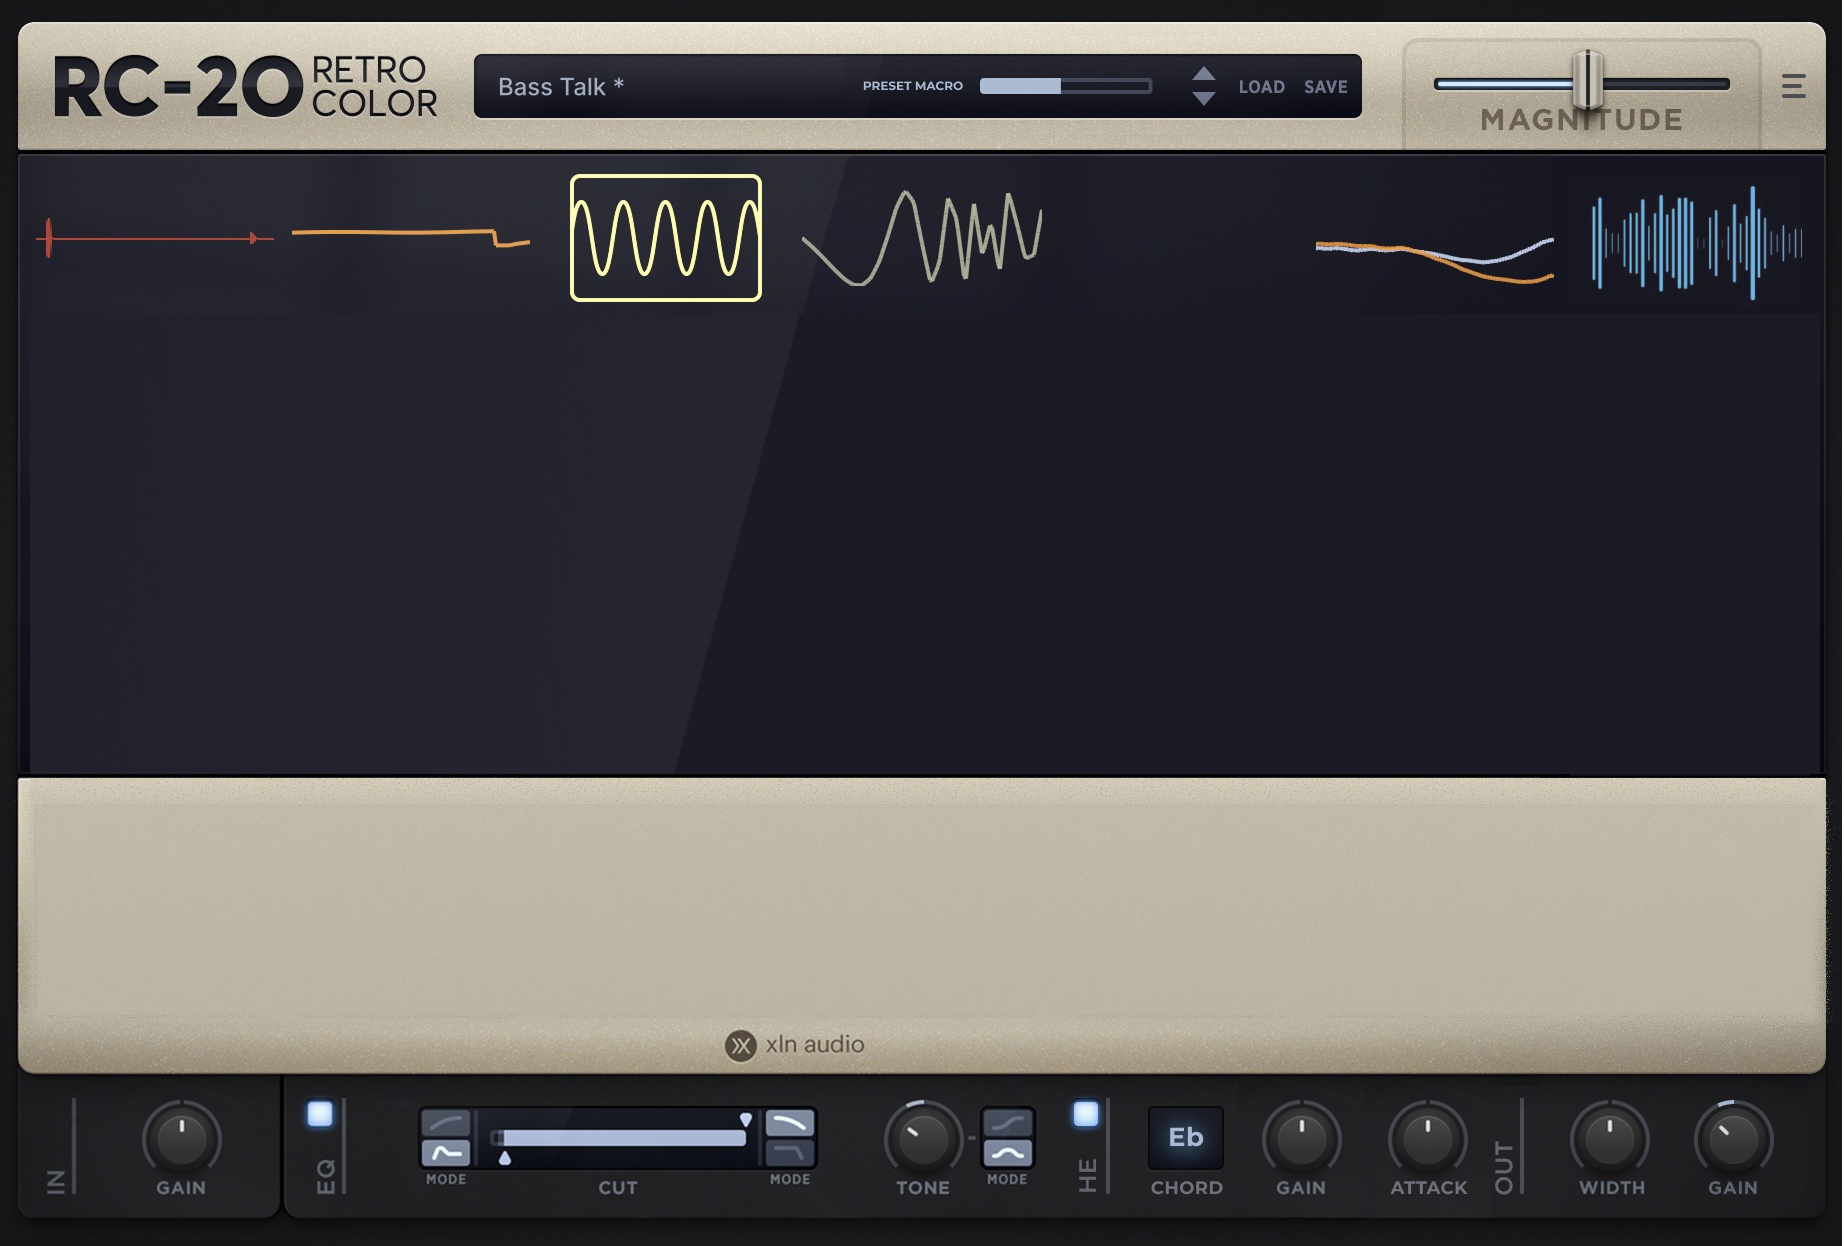
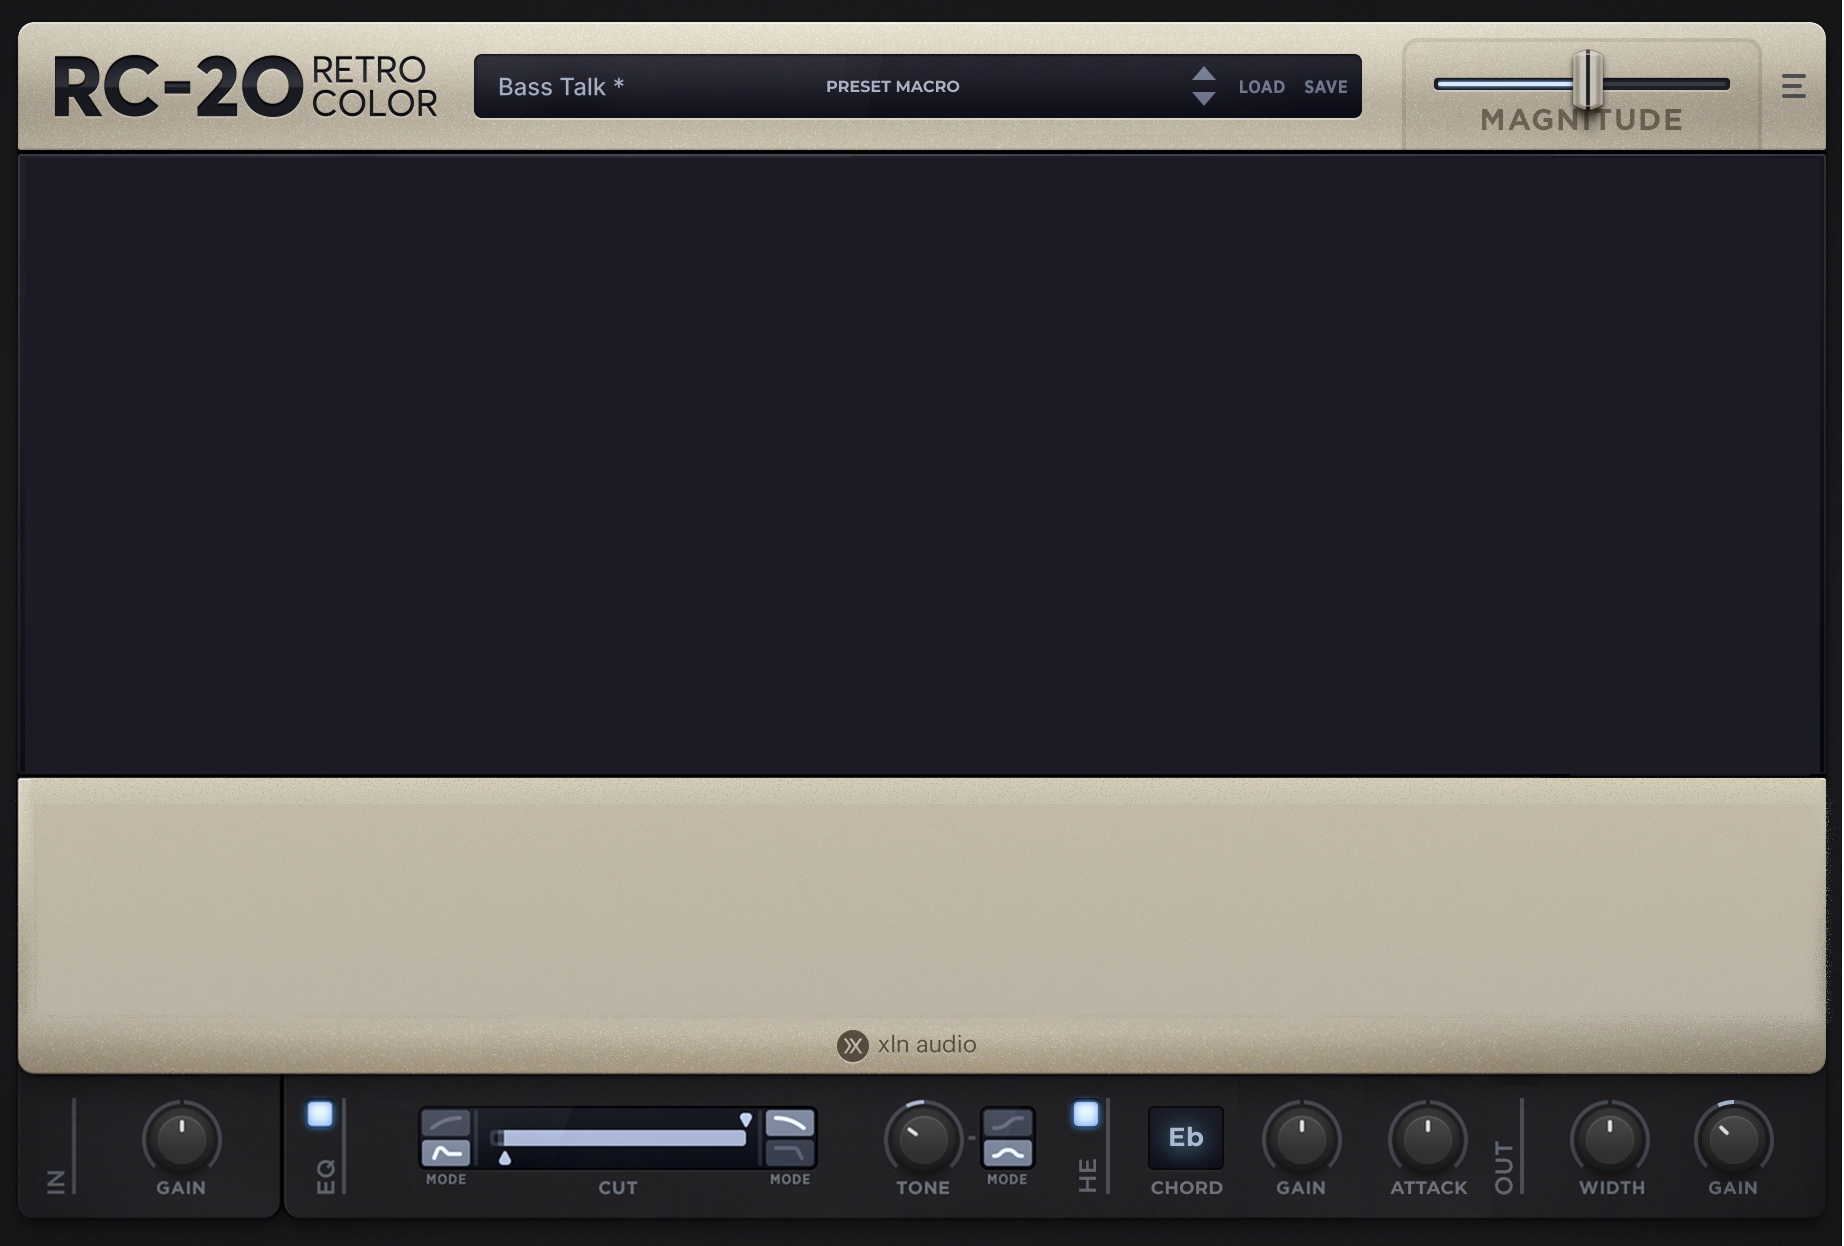
“Deploy”

diff --git a/projects/xln.html b/projects/xln.html
@@ -34,73 +34,76 @@
   <div style="background-color: black; display: flex; justify-content: center; align-items: center; position: relative;">
     <img src="../images/projects/xln/back-empty.png" alt="Back" style="width: 921px; height: 623px;">
 
-    <div id="image-cluster" style="position: absolute; top: 161px; left: 17px; display: flex; gap: 8px">
-      <!-- Draggable images -->
-      <img src="../images/projects/xln/1.png" alt="Image 1" class="draggable" style="width: 120px; position: relative;">
-      <img src="../images/projects/xln/2.png" alt="Image 2" class="draggable" style="width: 120px; position: relative;">
-      <img src="../images/projects/xln/3.png" alt="Image 3" class="draggable" style="width: 120px; position: relative;">
-      <img src="../images/projects/xln/4.png" alt="Image 4" class="draggable" style="width: 120px; position: relative;">
-      <img src="../images/projects/xln/5.png" alt="Image 5" class="draggable" style="width: 120px; position: relative;">
-      <img src="../images/projects/xln/6.png" alt="Image 6" class="draggable" style="width: 120px; position: relative;">
-      <img src="../images/projects/xln/7.png" alt="Image 7" class="draggable" style="width: 120px; position: relative;">
+    <input id="dynamic-slider" type="range" min="0" max="100" value="50" style="
+      -webkit-appearance: none; 
+      width: 90px; 
+      left: 488px; 
+      height: 10px; 
+      background: #1C1C26; border: 2px solid #444959; 
+      border-radius: 10px; 
+      position: absolute; 
+      top: 38px; 
+      z-index: 99;"
+    >
+
+    <div id="image-cluster" style="position: absolute; top: 78px; left: 17px; display: flex; gap: 8px">
+      <img src="../images/projects/xln/full_modules/1.png" alt="Image 1" class="draggable" style="width: 120px; position: relative;">
+      <img src="../images/projects/xln/full_modules/2.png" alt="Image 2" class="draggable" style="width: 120px; position: relative;">
+      <img src="../images/projects/xln/full_modules/3.png" alt="Image 3" class="draggable" style="width: 120px; position: relative;">
+      <img src="../images/projects/xln/full_modules/4.png" alt="Image 4" class="draggable" style="width: 120px; position: relative;">
+      <img src="../images/projects/xln/full_modules/5.png" alt="Image 5" class="draggable" style="width: 120px; position: relative;">
+      <img src="../images/projects/xln/full_modules/6.png" alt="Image 6" class="draggable" style="width: 120px; position: relative;">
+      <img src="../images/projects/xln/full_modules/7.png" alt="Image 7" class="draggable" style="width: 120px; position: relative;">
     </div>
 
-<input id="dynamic-slider" type="range" min="0" max="100" value="50" 
-          style="-webkit-appearance: none; 
-width: 90px; 
-left: 488px; 
-height: 10px; 
-background: #1C1C26; border: 2px solid #444959; 
-border-radius: 10px; 
-position: absolute; 
-top: 38px; 
-z-index: 99;">
+    <div id="macro-hover" style="position: absolute; top: 0px; left: 380px; width: 200px; height: 60px; z-index: 10;"></div>
+    <div id="harmonic-hover" style="position: absolute; top: 550px; left: 540px; width: 200px; height: 60px; z-index: 10;"></div>
 
+    <div id="macro-text" style="width: 921px; position: absolute; bottom: -30px; left: 50%; transform: translateX(-50%); color: silver; display: none; font-family: Arial, sans-serif; font-size: 14px; line-height: 1.5; z-index: 1000;">
+      <div style="display: flex; justify-content: center;">The Preset Macro will adjust the levels of the modules in a pre-specified way.</div>
+    </div>
 
+    <div id="harmonic-text" style="width: 921px; position: absolute; bottom: -30px; left: 50%; transform: translateX(-50%); color: silver; display: none; font-family: Arial, sans-serif; font-size: 14px; line-height: 1.5; z-index: 1000;">
+      <div style="display: flex; justify-content: center;">Harmonic Emphasis will detect the chords or notes being played and enhance them.</div>
+    </div>
 
   </div>
 </div>
 
 <style>
 
-
-
-
   input[type=range]::-webkit-slider-thumb {
     -webkit-appearance: none;
+    -moz-appearance: none;
     appearance: none;
     width: 20px;
     height: 20px;
     background: transparent;
-    border-radius: 10px 0 0 10px;
     cursor: pointer;
   }
   input[type=range]:active::-webkit-slider-thumb {
     background: transparent;
   }
 
-
-
-
-
   .draggable {
     transition: transform 0.2s, margin 0.2s;
     cursor: grab;
   }
   .draggable:active {
-    transform: scale(1.2);
     cursor: grabbing;
   }
   .placeholder {
-    width: 120px;
+    width: 0px;
     height: 120px;
-    margin: 0 8px;
+    margin: 0;
     background: transparent;
-    border: 2px dashed #ACBBD2;
   }
 </style>
 
 <script>
+
+  // Preset Macro
+
   const slider = document.getElementById('dynamic-slider');
   slider.addEventListener('input', (event) => {
     const value = event.target.value;
@@ -109,6 +112,7 @@ z-index: 99;">
     event.target.style.background = `linear-gradient(to right, #ACBBD2 ${value}%, #1C1C26 ${value}%)`;
   });
 
+  // Signal Chain
 
   const cluster = document.getElementById('image-cluster');
   let draggedElement = null;
@@ -119,7 +123,7 @@ z-index: 99;">
       draggedElement = e.target;
       placeholder = document.createElement('div');
       placeholder.classList.add('placeholder');
-      draggedElement.style.opacity = '0.5';
+      draggedElement.style.opacity = '0.2';
       e.dataTransfer.effectAllowed = 'move';
     }
   });
@@ -147,6 +151,33 @@ z-index: 99;">
     if (draggedElement && placeholder) {
       cluster.insertBefore(draggedElement, placeholder);
     }
+  });
+
+
+
+  // Hover Area Functionality
+  const macroHover = document.getElementById('macro-hover');
+  const macroText = document.getElementById('macro-text');
+
+  macroHover.addEventListener('mouseenter', () => {
+    macroText.style.display = 'block';
+  });
+
+  macroHover.addEventListener('mouseleave', () => {
+    macroText.style.display = 'none';
+  });
+
+
+
+  const harmonicHover = document.getElementById('harmonic-hover');
+  const harmonicText = document.getElementById('harmonic-text');
+
+  harmonicHover.addEventListener('mouseenter', () => {
+    harmonicText.style.display = 'block';
+  });
+
+  harmonicHover.addEventListener('mouseleave', () => {
+    harmonicText.style.display = 'none';
   });
 </script>
   </body>
